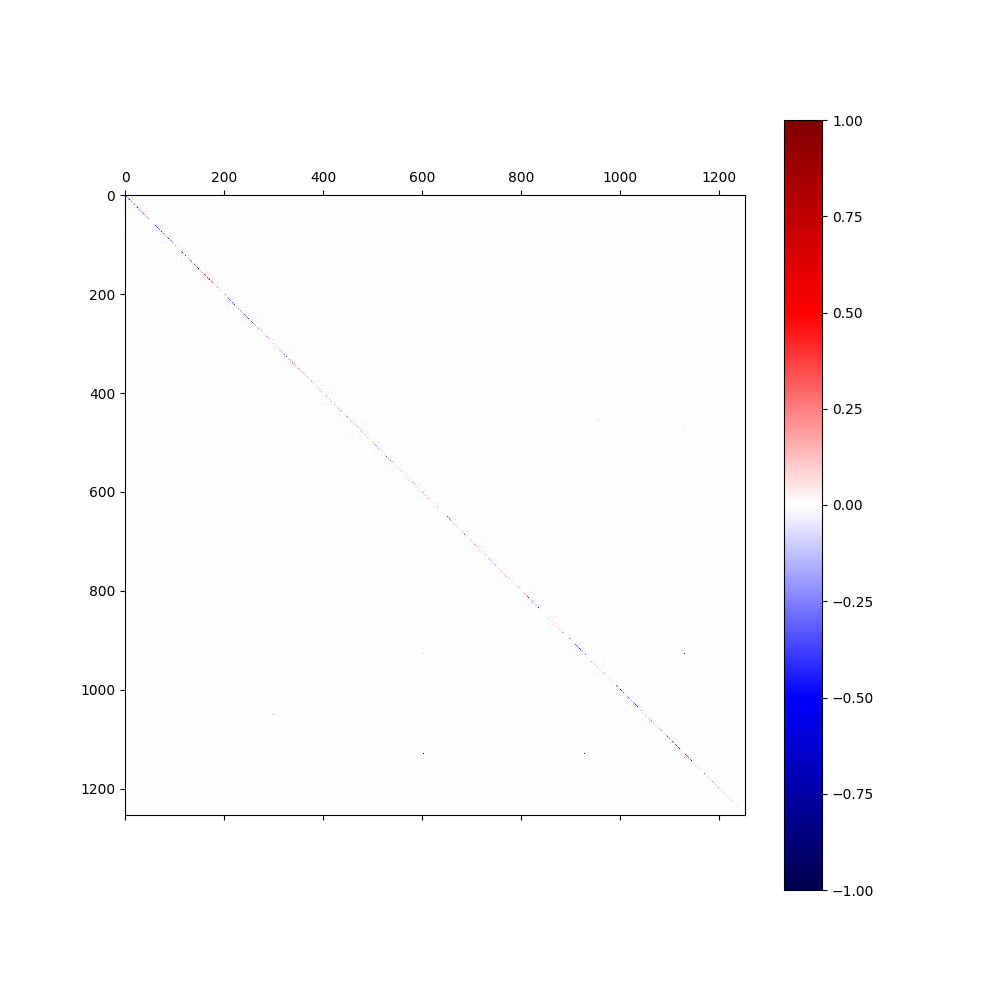
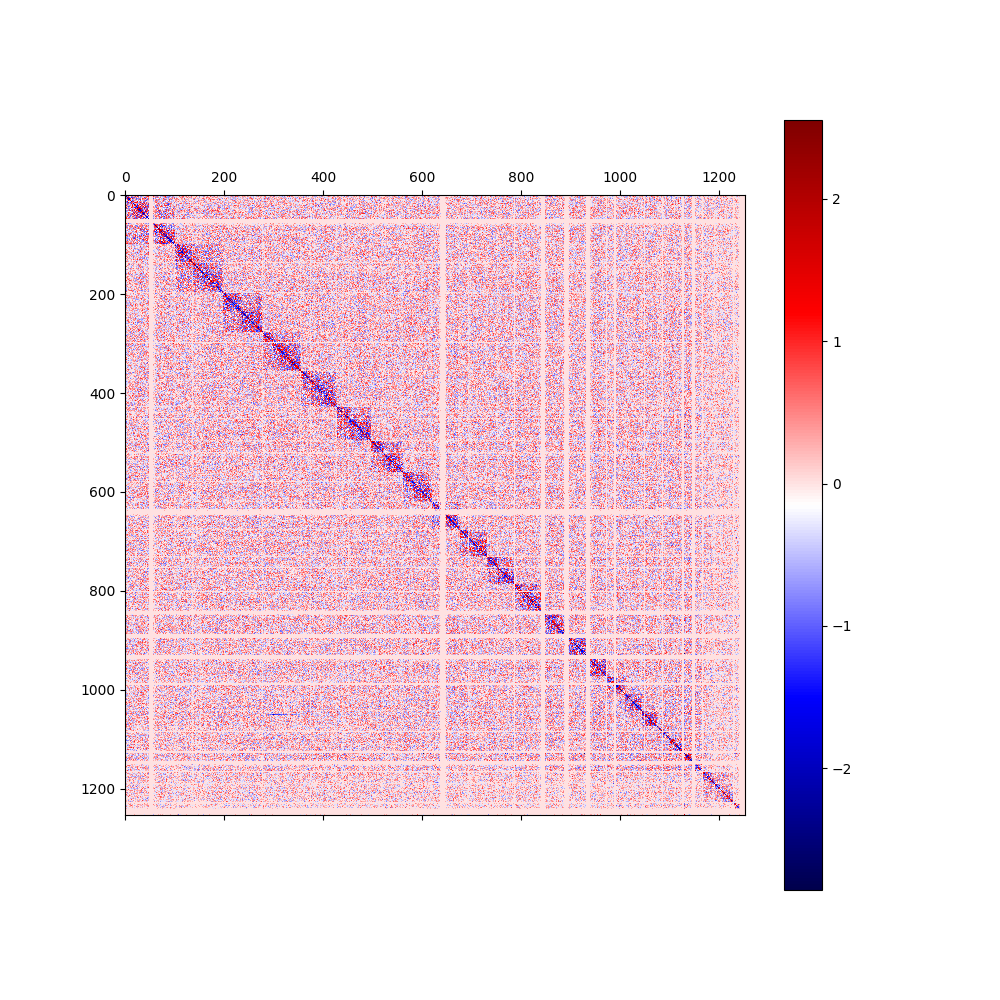
new

diff --git a/hic_Subtraction.py b/hic_Subtraction.py
@@ -25,17 +25,17 @@ def read_in(file_path):
 
 """
   get matrix data then calculate input1 - input2
-  
+
   normalized by log10() with positive and negative signs unchanged
-  
+
 
 """
 
 def get_Subtraction(c1,c2,area_s,area_e):
     mat1 = (c1.matrix(balance=False, sparse=True)[area_s:area_e,area_s:area_e]).toarray()
     mat2 = (c2.matrix(balance=False, sparse=True)[area_s:area_e,area_s:area_e]).toarray()
-    arr1 = (mat1/mat1.sum())*100000
-    arr2 = (mat2/mat2.sum())*100000
+    arr1 = (mat1/mat1.sum())*(mat1.sum()+mat2.sum())
+    arr2 = (mat2/mat2.sum())*(mat1.sum()+mat2.sum())
     arr_sub = arr1-arr2
     arr_list = np.array([[x*log(x+1 if x>=0 else -x+1,10)/(abs(x)+1) for x in row ] for row in arr_sub])
     arr = arr_list.reshape(arr_list.shape[0],arr_list.shape[1])
@@ -45,7 +45,7 @@ def get_Subtraction(c1,c2,area_s,area_e):
 def get_fig(data,area_s,area_e,outdir,outfig):
     fig = plt.figure(figsize=(10, 10))
     ax = fig.add_subplot(111)
-    im = ax.matshow(data,cmap='seismic',vmin=-1, vmax=1,interpolation='none') ## vmin vmax determin the range of colorbar
+    im = ax.matshow(data,cmap='seismic',interpolation='none') ## vmin vmax determin the range of colorbar
 #    im = ax.matshow(data,cmap='YlOrRd',vmin=-1, vmax=1,interpolation='none')
     fig.colorbar(im)
     fig.savefig(outdir+outfig)
@@ -55,8 +55,8 @@ def process(input1,input2,area_s,area_e,outdir,outfig):
     c2 = read_in(input2)
     arr = get_Subtraction(c1,c2,area_s,area_e)
     get_fig(arr,area_s,area_e,outdir,outfig)
-            
-    
+
+
 @click.command(name="hic_Subtraction")
 @click.argument("input1")
 @click.argument("input2")
@@ -77,6 +77,6 @@ def main_(input1,input2,area_s,area_e,outdir,outfig):
     if not exists(outdir):
         os.mkdir(outdir)
     process(input1,input2,area_s,area_e,outdir,outfig)
-    
+
 if __name__ == "__main__":
     main_()
